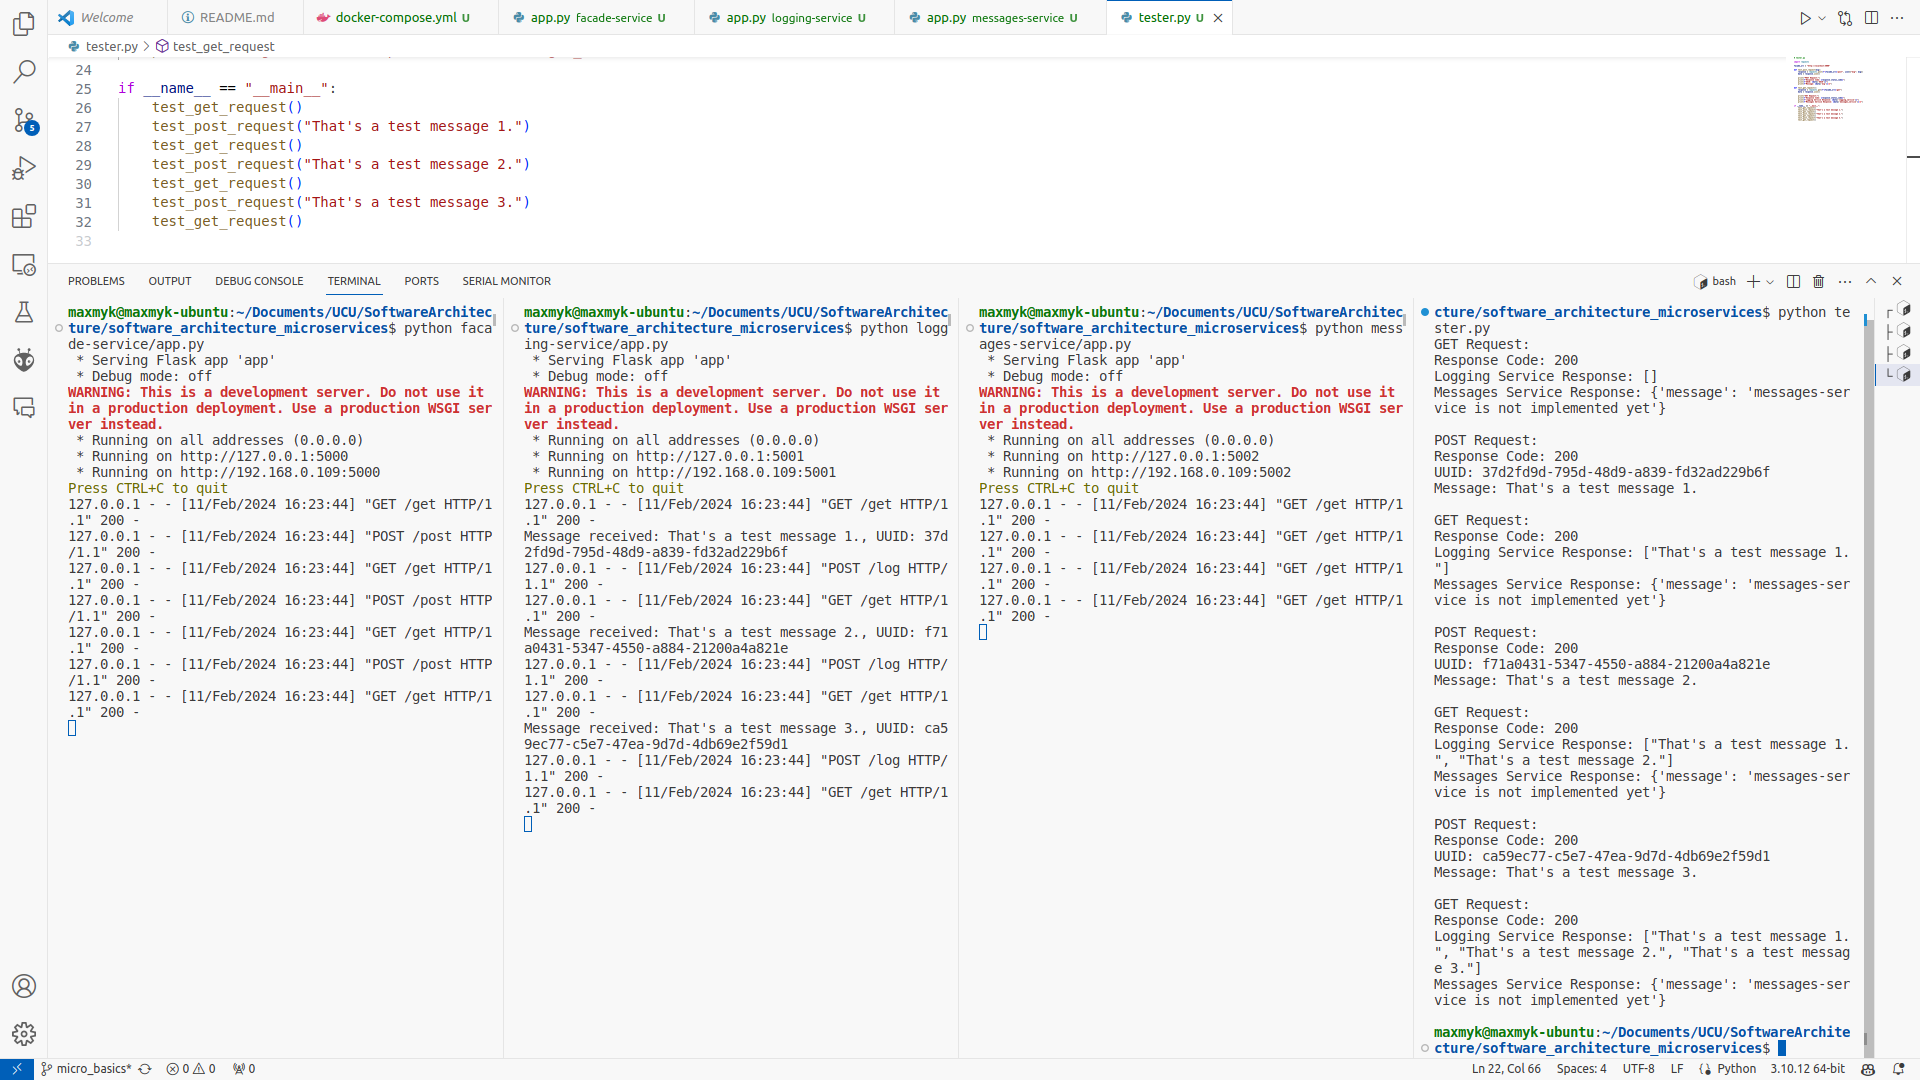
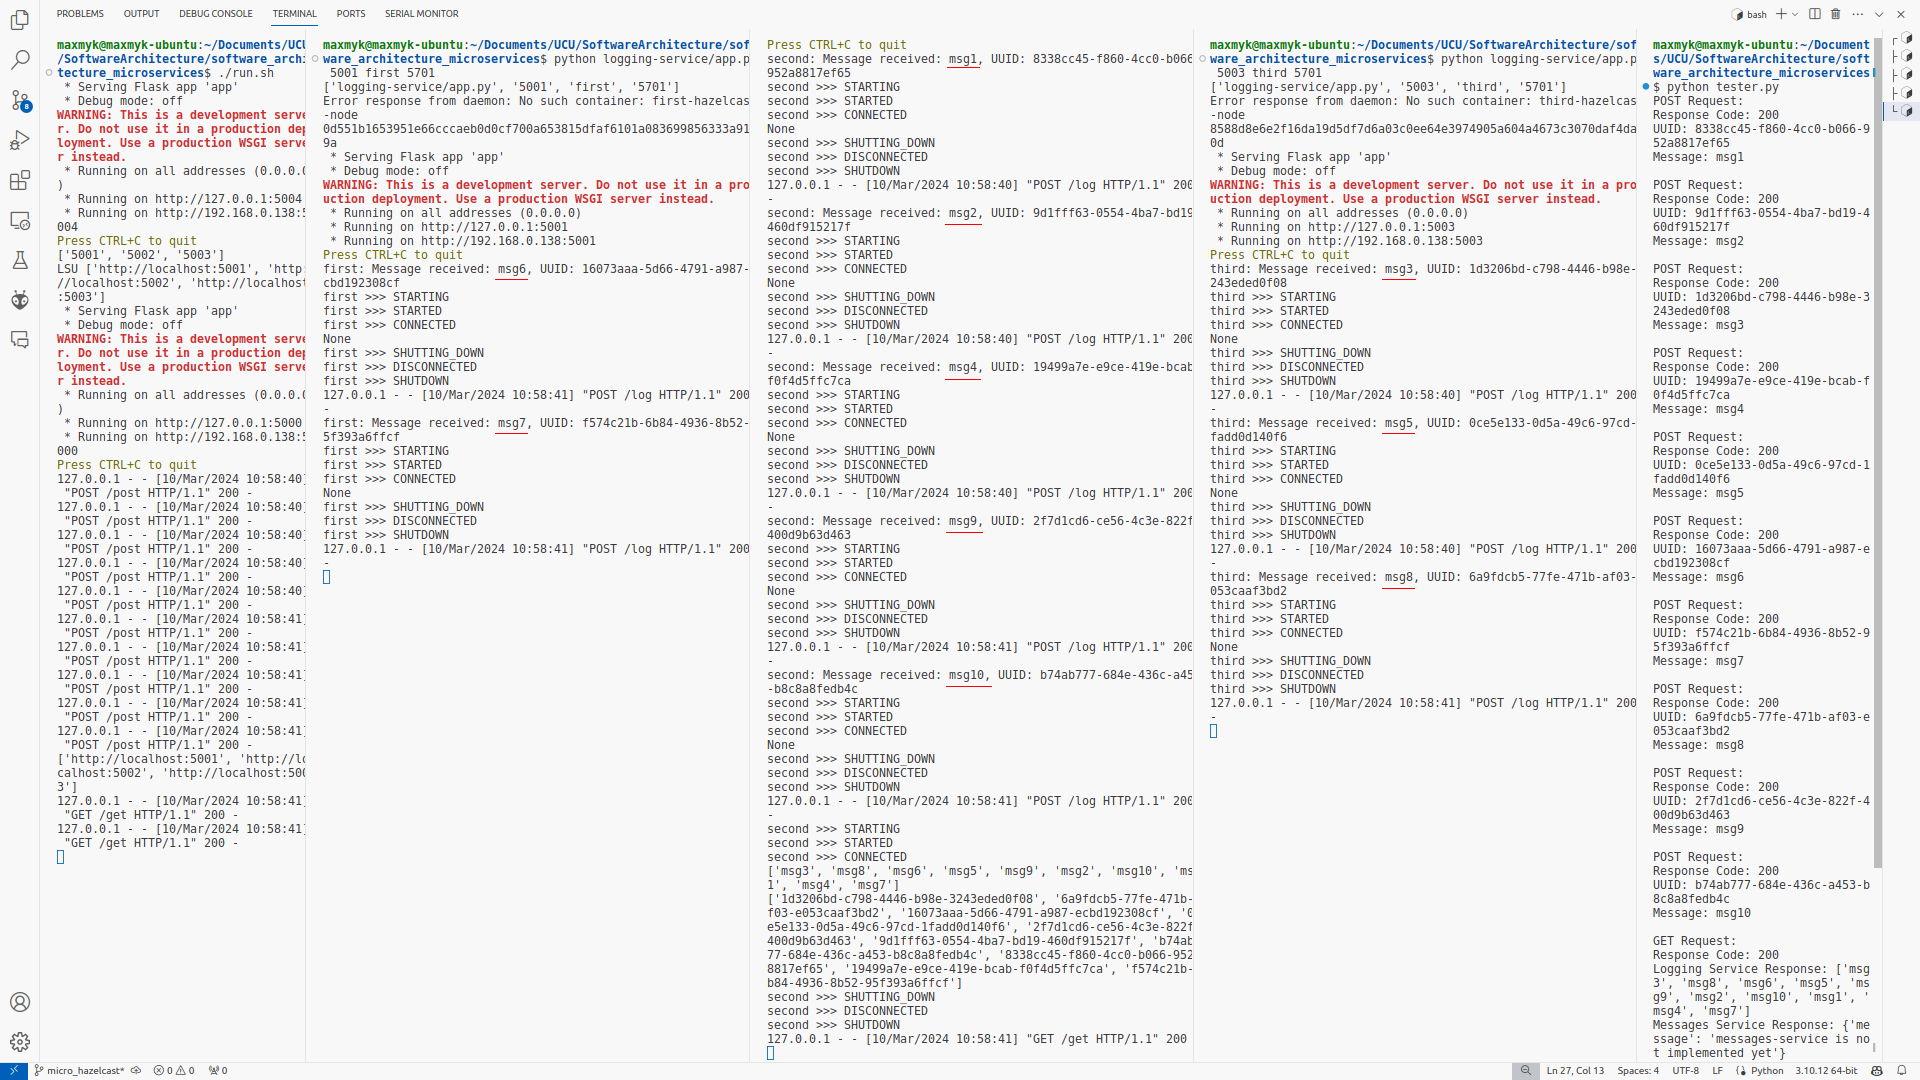
Hazelcast added

Changed region(s): [[0.0, 0.0, 1.0, 1.0], [0.0, 0.8861, 0.125, 1.0]]

diff --git a/logging-service/app.py b/logging-service/app.py
@@ -1,9 +1,10 @@
 # logging_service.py
+import sys
 from flask import Flask, jsonify, request
+import hazelcast
+import subprocess
 
 app = Flask(__name__)
-
-messages = {}
 
 @app.route('/log', methods=['POST'])
 def log_message():
@@ -11,14 +12,48 @@ def log_message():
     unique_id = data['UUID']
     msg = data['msg']
 
-    messages[unique_id] = msg
-    print(f"Message received: {msg}, UUID: {unique_id}")
-
+    print(f"{sys.argv[2]}: Message received: {msg}, UUID: {unique_id}")
+    
+    client = hazelcast.HazelcastClient(
+        cluster_name="hazelcast-cluster",
+        cluster_members=[
+            f"172.17.0.1:{int(sys.argv[1])+700}"
+        ],
+        lifecycle_listeners=[
+            lambda state: print(f"{sys.argv[2]} >>>", state),
+        ]
+    )
+    distributed_map = client.get_map("my-distributed-map").blocking()
+    print(distributed_map.put(unique_id, msg))
+    client.shutdown()
     return jsonify({'message': 'Logged successfully'}), 200
 
 @app.route('/get', methods=['GET'])
 def get_messages():
-    return jsonify(list(messages.values())), 200
+    client = hazelcast.HazelcastClient(
+        cluster_name="hazelcast-cluster",
+        cluster_members=[
+            f"172.17.0.1:{int(sys.argv[1])+700}"
+        ],
+        lifecycle_listeners=[
+            lambda state: print(f"{sys.argv[2]} >>>", state),
+        ]
+    )
+    distributed_map = client.get_map("my-distributed-map").blocking()
+    print(distributed_map.values())
+    print(distributed_map.key_set())
+    data_to_return = list(distributed_map.values())
+    client.shutdown()
+    return jsonify(data_to_return), 200
 
 if __name__ == '__main__':
-    app.run(host='0.0.0.0', port=5001)
+    try:
+        print(sys.argv)
+        if len(sys.argv) != 4:
+            print("Usage: python app.py <port> <node name> <hazelcast port>")
+            sys.exit(1)
+        subprocess.run(["docker", "stop", f"{sys.argv[2]}-hazelcast-node"])
+        subprocess.run(["docker", "run", "-itd", "--name", f"{sys.argv[2]}-hazelcast-node", "--rm", "-e", f"HZ_NETWORK_PUBLICADDRESS=172.17.0.1:{int(sys.argv[1])+700}", "-e", "HZ_CLUSTERNAME=hazelcast-cluster", "-p", f"{int(sys.argv[1])+700}:{int(sys.argv[-1])}", "hazelcast/hazelcast:5.3.6"])
+        app.run(host='0.0.0.0', port=int(sys.argv[1]))
+    finally:
+        subprocess.run(["docker", "stop", f"{sys.argv[2]}-hazelcast-node"])

diff --git a/facade-service/app.py b/facade-service/app.py
@@ -1,27 +1,36 @@
 # facade_service.py
+import sys
 from flask import Flask, jsonify, request
 import requests
 import uuid
+import random
 
 app = Flask(__name__)
 
-logging_service_url = "http://localhost:5001"
-messages_service_url = "http://localhost:5002"
+print(sys.argv[2:-1])
+logging_service_urls = [f"http://localhost:{i}" for i in sys.argv[2:-1]]
+messages_service_url = f"http://localhost:{sys.argv[-1]}"
 
 @app.route('/post', methods=['POST'])
 def post_message():
     msg = request.json['msg']
     unique_id = str(uuid.uuid4())
     payload = {'UUID': unique_id, 'msg': msg}
-    requests.post(f"{logging_service_url}/log", json=payload)
+    
+    requests.post(random.choice(logging_service_urls) + "/log", json=payload)
 
     return jsonify({'UUID': unique_id, 'msg': msg}), 200
 
 @app.route('/get', methods=['GET'])
 def get_messages():
-    logging_response = requests.get(f"{logging_service_url}/get").json()
+    print(logging_service_urls)
+    logging_response = requests.get(f"{random.choice(logging_service_urls)}/get").json()
     messages_response = requests.get(f"{messages_service_url}/get").json()
     return jsonify({'logging_service': logging_response, 'messages_service': messages_response}), 200
 
 if __name__ == '__main__':
-    app.run(host='0.0.0.0', port=5000)
+    if len(sys.argv) < 3:
+        print("Usage: python app.py <port>")
+        sys.exit(1)
+    print("LSU", logging_service_urls)
+    app.run(host='0.0.0.0', port=int(sys.argv[1]))  #5000)

diff --git a/tester_get_only.py b/tester_get_only.py
@@ -1,16 +1,7 @@
-# tester.py
+# tester_get_only.py
 import requests
 
 facade_url = "http://localhost:5000"
-
-def test_post_request(msg):
-    response = requests.post(f"{facade_url}/post", json={"msg": msg})
-    data = response.json()
-    
-    print("POST Request:")
-    print(f"Response Code: {response.status_code}")
-    print(f"UUID: {data['UUID']}")
-    print(f"Message: {data['msg']}\n")
 
 def test_get_request():
     response = requests.get(f"{facade_url}/get")
@@ -22,6 +13,4 @@ def test_get_request():
     print(f"Messages Service Response: {data['messages_service']}\n")
 
 if __name__ == "__main__":
-    for i in range(10):
-        test_post_request(f"msg{i+1}")
     test_get_request()

diff --git a/messages-service/app.py b/messages-service/app.py
@@ -1,4 +1,5 @@
 # messages_service.py
+import sys
 from flask import Flask, jsonify
 
 app = Flask(__name__)
@@ -8,4 +9,7 @@ def get_static_message():
     return jsonify({'message': 'messages-service is not implemented yet'}), 200
 
 if __name__ == '__main__':
-    app.run(host='0.0.0.0', port=5002)
+    if len(sys.argv) != 2:
+        print("Usage: python app.py <port>")
+        sys.exit(1)
+    app.run(host='0.0.0.0', port=int(sys.argv[1]))  #5004)

diff --git a/README.md b/README.md
@@ -1,22 +1,46 @@
-# Software Architecture task 1 Protocol
+# Software Architecture task 3 Protocol
 
-In this task I've implemented 3 microservices: facade-service, logging-service and messages-service using Python and Flask micro web framework.
+In this task I've improved logging-service from the first task using Hazelcast.
 
-Also, I've added a ```tester.py``` for a quick demo.
+Also, I've added a ```tester.py``` and ```tester_get_only.py``` for a quick demo.
 
 ## Github URL
-https://github.com/maxmyk/software_architecture_microservices/tree/micro_basics
+https://github.com/maxmyk/software_architecture_microservices/tree/micro_hazelcast
+
+## Task
+
+### Start three instances of logging-service, respectively, three instances of Hazelcast should also be started
+
+Automated via ```run.sh``` script
+
+### Using HTTP POST, write 10 messages msg1-msg10 via facade-service. Show which messages each of the logging-service  instances received (this should be visible in the service logs). Read messages via HTTP GET from facade-service  
+
+See the *first* screenshot.
+
+### Shut down one / two instances of the logging-service (Hazelcast nodes should be shut down along with it) and check if we can read the messages
+
+See the *second* screenshot.
 
 ## Screenshots
-POST/GET requests with several messages and responses to them, and the contents of the console of each microservice.
+Ten POST requests "msg1"-"msg10", one GET request and responses to them, and the contents of the console of each microservice.
 
-![screenshot](https://github.com/maxmyk/software_architecture_microservices/blob/micro_basics/screenshot.png?raw=true)
+![screenshot](https://github.com/maxmyk/software_architecture_microservices/blob/micro_hazelcast/screenshot.png?raw=true)
+
+---
+
+GET request with two of the logging services disabled. As we can see, we can read the messages, data is intact.
+
+![screenshot1](https://github.com/maxmyk/software_architecture_microservices/blob/micro_hazelcast/screenshot1.png?raw=true)
+
+---
 
 ### Prerequisites
 
 - Python
     - Flask
     - Requests
+    - Hazelcast
+- Docker
 
 ### Installation
 
@@ -25,6 +49,7 @@ POST/GET requests with several messages and responses to them, and the contents 
 ```bash
 git clone https://github.com/maxmyk/software_architecture_microservices
 cd software_architecture_microservices
+git checkout micro_hazelcast
 ```
 
 #### Chmod ```run.sh``` for execution
@@ -40,7 +65,9 @@ Start the services automatically (tested on Ubuntu 22.04 LTS)
 ```
 Or start them manually in separate bash windows.
 
-Run tester
+Run testers
 ```bash
 python3 tester.py
+# Disable 1-2 logging services and then run
+python3 tester_get_only.py
 ```
